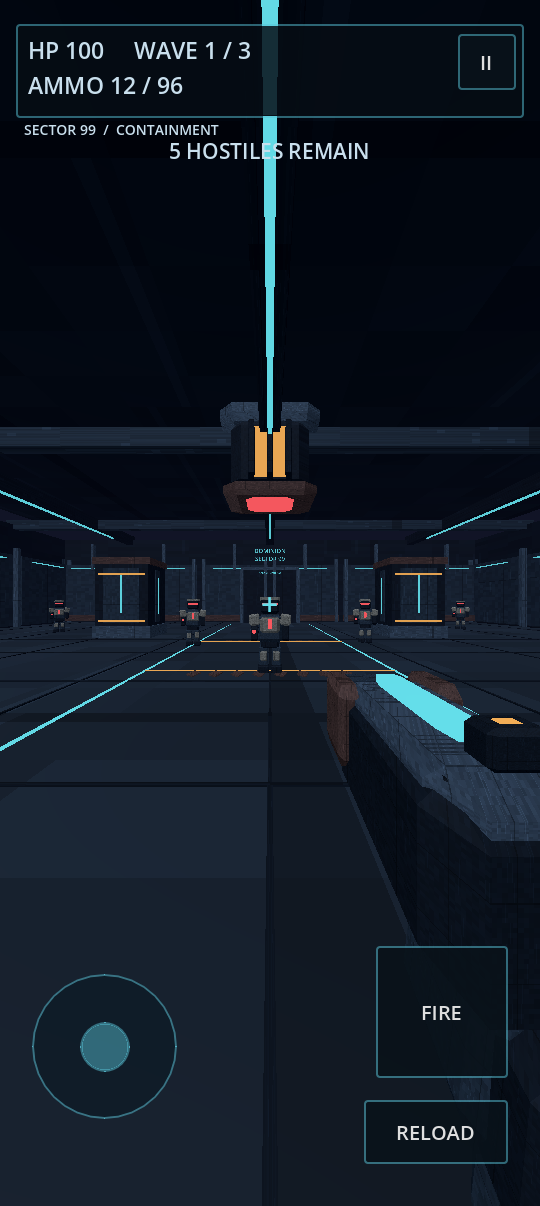
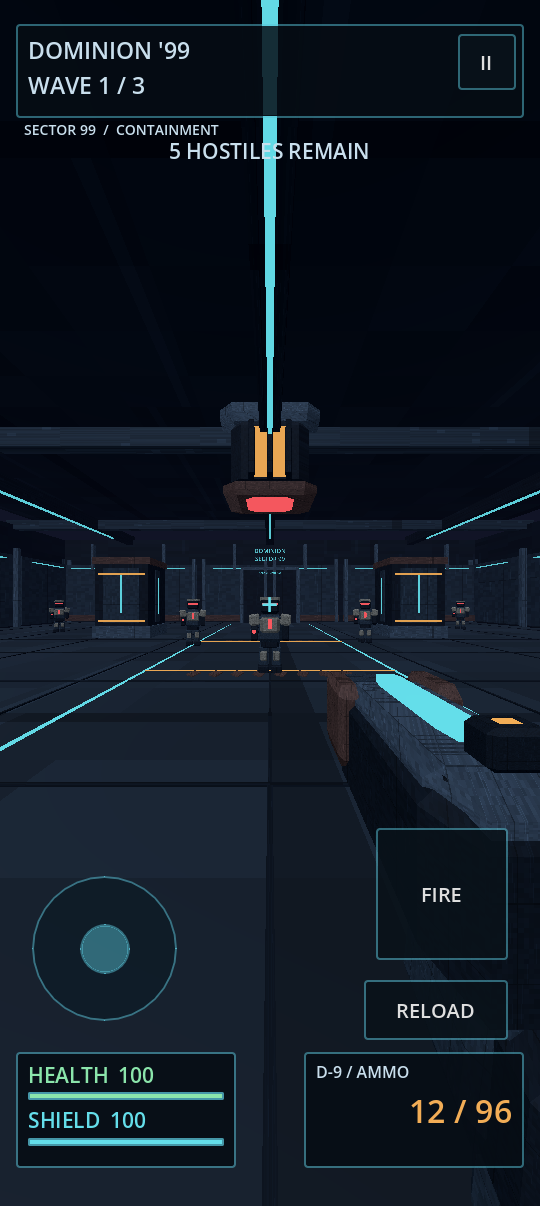
Add regenerating shield and lower-corner combat HUD

diff --git a/README.md b/README.md
@@ -2,7 +2,7 @@
 
 A modern take on the classic fps arena shooter, with a bit more depth.
 
-**[Download Android APK — v0.1.2](https://github.com/Tweeksterr91/dominion-99-lite/releases/download/v0.1.2/dominion-99-lite.apk)** · **[All releases](https://github.com/Tweeksterr91/dominion-99-lite/releases)**
+**[Download Android APK — v0.1.3](https://github.com/Tweeksterr91/dominion-99-lite/releases/download/v0.1.3/dominion-99-lite.apk)** · **[All releases](https://github.com/Tweeksterr91/dominion-99-lite/releases)**
 
 A small portrait-only offline FPS prototype for Android, built for editing on a phone with **Godot 4.3 or newer**. Features an original dark sci-fi containment arena, armored enemies, a pulse-style pistol, and procedural metal surfaces. Uses the Compatibility renderer, batched low-poly geometry, no real-time shadows, and synthesized audio.
 
@@ -27,6 +27,9 @@ The editor interface is easier with a Bluetooth keyboard or mouse, but neither i
 ## Game rules
 
 - Survive three waves: 5, 7, and 9 enemies. Three pistol hits defeat an enemy.
+- Health and regenerating shield appear in the lower left; ammo appears in the lower right.
+- Start with 100 health and 100 shield. Shield absorbs damage first; excess damage reduces health.
+- After four seconds without damage, shield regenerates at 20 points per second up to 100. Health needs pickups. Pausing freezes shield recharge.
 - Green boxes restore 30 health; amber boxes give 24 reserve rounds.
 - Your pistol holds 12 rounds and takes 1.25 seconds to reload.
 - Enemies shoot when they see you. Use the four pillars as cover.
@@ -55,6 +58,10 @@ Original source and icon in this project are provided under the MIT license. God
 
 ## Publishing future builds
 
-Keep each version in its own GitHub Release with the APK and notes about the changes. Increase `version/code` in `export_presets.cfg` for every APK update and set a matching `version/name` (for example `0.1.3`). Reuse the original signing key to allow Android to update the installed game. Keep signing keys and credentials outside this repository; they are excluded by `.gitignore`.
+Keep each version in its own GitHub Release with the APK and notes about the changes. Increase `version/code` in `export_presets.cfg` for every APK update and set a matching `version/name` (for example `0.1.4`). Reuse the original signing key to allow Android to update the installed game. Keep signing keys and credentials outside this repository; they are excluded by `.gitignore`.
 
 The first build was exported with Godot 4.6.3 and the standard ARM64 Android debug template. This is a development build; a store release needs release signing.
+
+## Validation
+
+Run `godot --headless --path . --script tests/smoke.gd` to check combat, shield damage and regeneration, pickups, pause/restart, three waves, and portrait HUD placement.

diff --git a/RELEASE_NOTES.md b/RELEASE_NOTES.md
@@ -1,20 +1,16 @@
-# Dominion '99 (Lite) — v0.1.2
+# Dominion '99 (Lite) — v0.1.3
 
-First dark sci-fi visual pass: Sector 99, an industrial containment arena.
+Lower-corner HUD and regenerating shield.
 
-## New visuals
+- Health and shield, with numeric readouts and bars, now sit in the lower left quadrant.
+- Magazine and reserve ammo now sit in the lower right quadrant.
+- Movement, fire, and reload controls moved upward to leave the HUD clear.
+- A 100-point shield absorbs incoming damage first. Excess damage reduces health.
+- Shield recharges at 20 points per second after four seconds without a hit. New damage restarts that delay; pause freezes recharge. Health still requires pickups.
+- Blue shield-hit feedback changes to red when damage reaches health.
 
-- Modular metal walls, four armored cover pylons, ceiling trusses, and a suspended reactor.
-- Cyan energy conduits, amber warning details, and original Sector 99 signage.
-- Original D-9 sidearm with beveled armor, energy spine, gloved hand, and armored sleeve.
-- Warden enemies with pale armor, crimson visors, energy rifles, and muzzle flashes.
-- Armored health and ammo cases with distinct illuminated markings.
-- Sharper cyan HUD, amber hit feedback, worn-metal surfaces, and dark atmosphere.
-
-The visual references guided atmosphere and silhouettes; the models and surfaces are original project assets. Geometry and materials are batched to keep drawing work low. No real-time shadows or post-process bloom.
-
-Portrait orientation and the fixed 60 FPS cap remain. Actual phone frame rate is not yet measured. Gameplay and portrait layout checks passed; the new shaders and models were also checked in a rendered desktop build.
+Portrait orientation and the fixed 60 FPS cap remain. Shield behavior, combat, and HUD placement passed automated checks at standard portrait and OnePlus 12R screen proportions. Phone performance is still unmeasured.
 
 ## Update
 
-Download `dominion-99-lite.apk` from Assets, open it, and tap Install or Update. The package and signing key match previous versions; Android version code is now 3. No uninstall is needed. Requires Android 7.0 or newer on ARM64. This is a development build.
+Download `dominion-99-lite.apk` from Assets and install it over the previous version. The package and signing key are unchanged; Android version code is now 4. Android 7.0 or newer on ARM64 is required. This is a development build.

diff --git a/docs/ART_DIRECTION.md b/docs/ART_DIRECTION.md
@@ -12,7 +12,7 @@ The requested references—Turok: Rage Wars, Quake, Unreal Tournament 3, and Qua
 - **D-9 sidearm:** chamfered gunmetal receiver, energy spine, muzzle cage, gloved hand, and armored sleeve.
 - **Warden:** broad pale shoulder armor, dark helmet, crimson visor, chest core, segmented legs, and energy rifle.
 - **Pickups:** armored health cases with green crosses and amber ammo cases with cartridge markings.
-- **HUD:** dark panels, sharp cyan edges, readable status labels, and an amber hit marker.
+- **HUD:** dark panels, sharp cyan edges, health and regenerating shield at lower left, ammo at lower right, and an amber hit marker.
 
 ## Color and visibility
 
